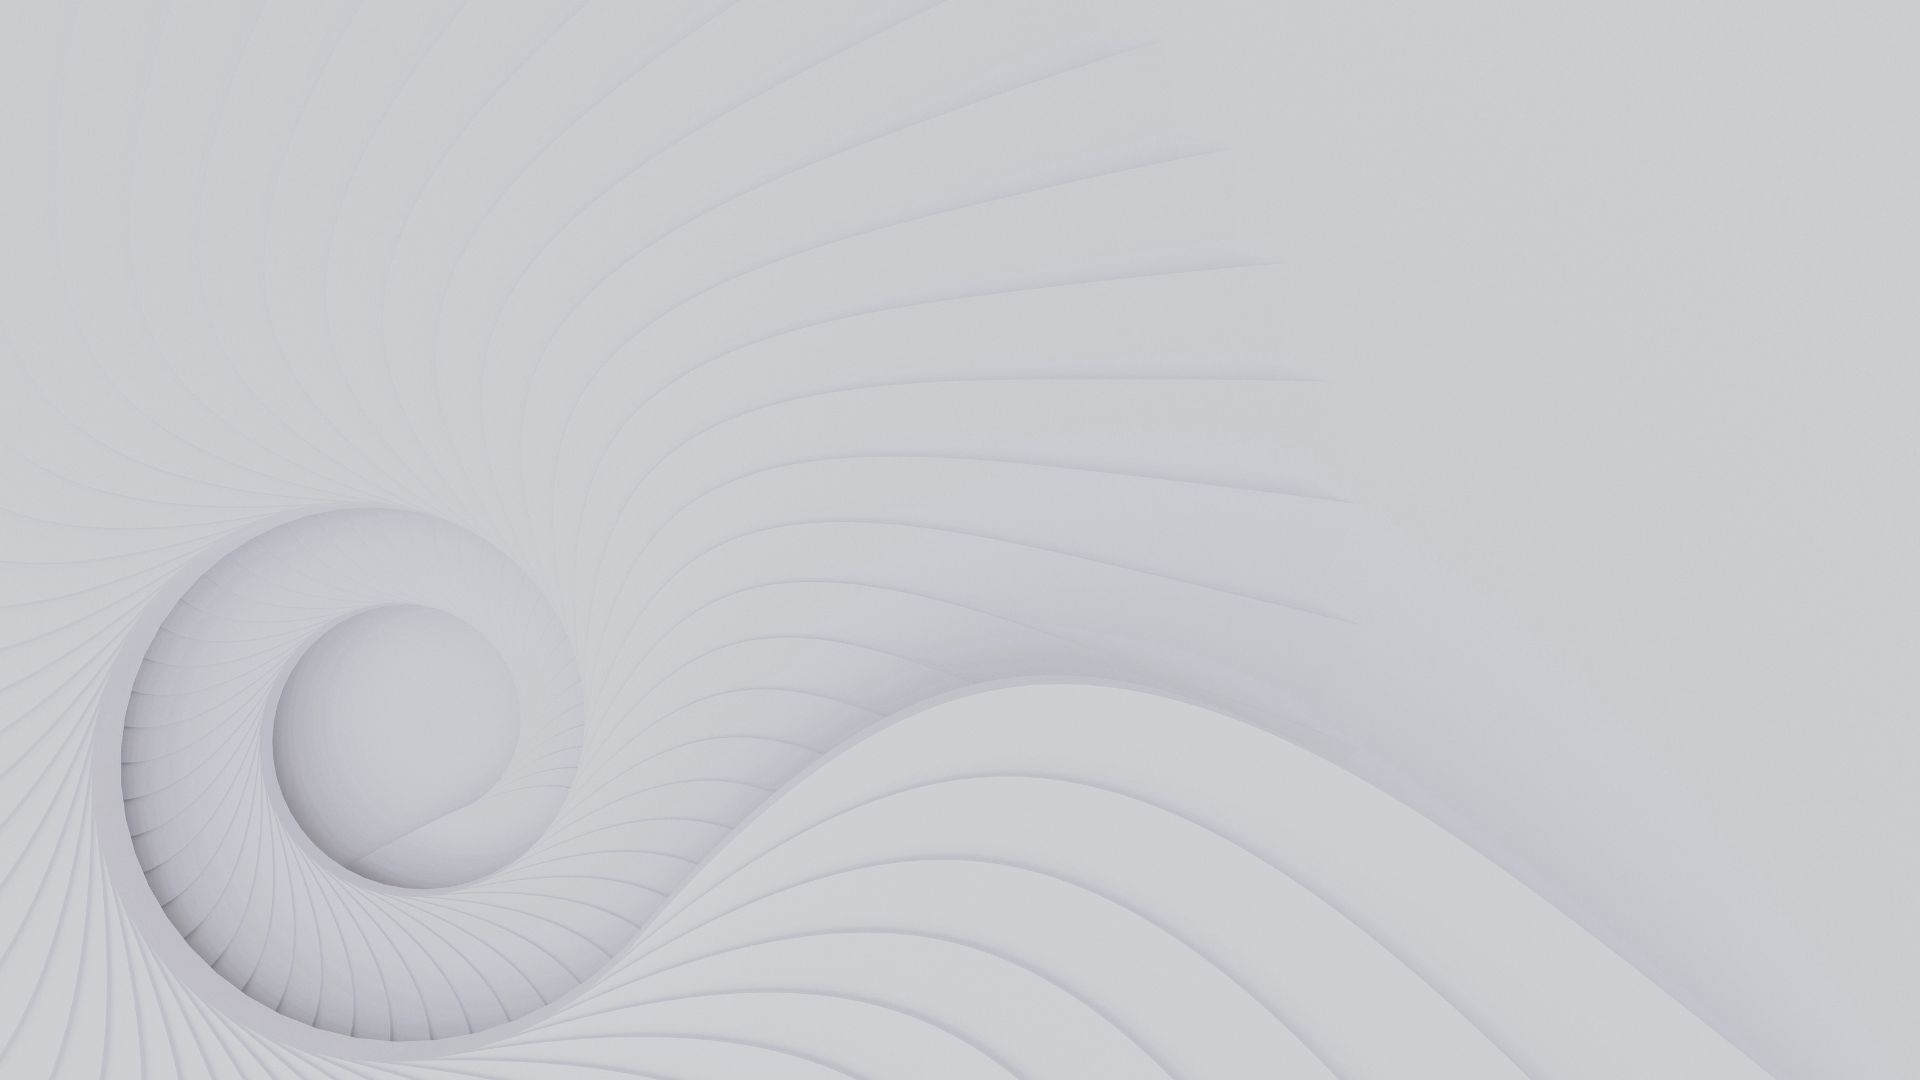
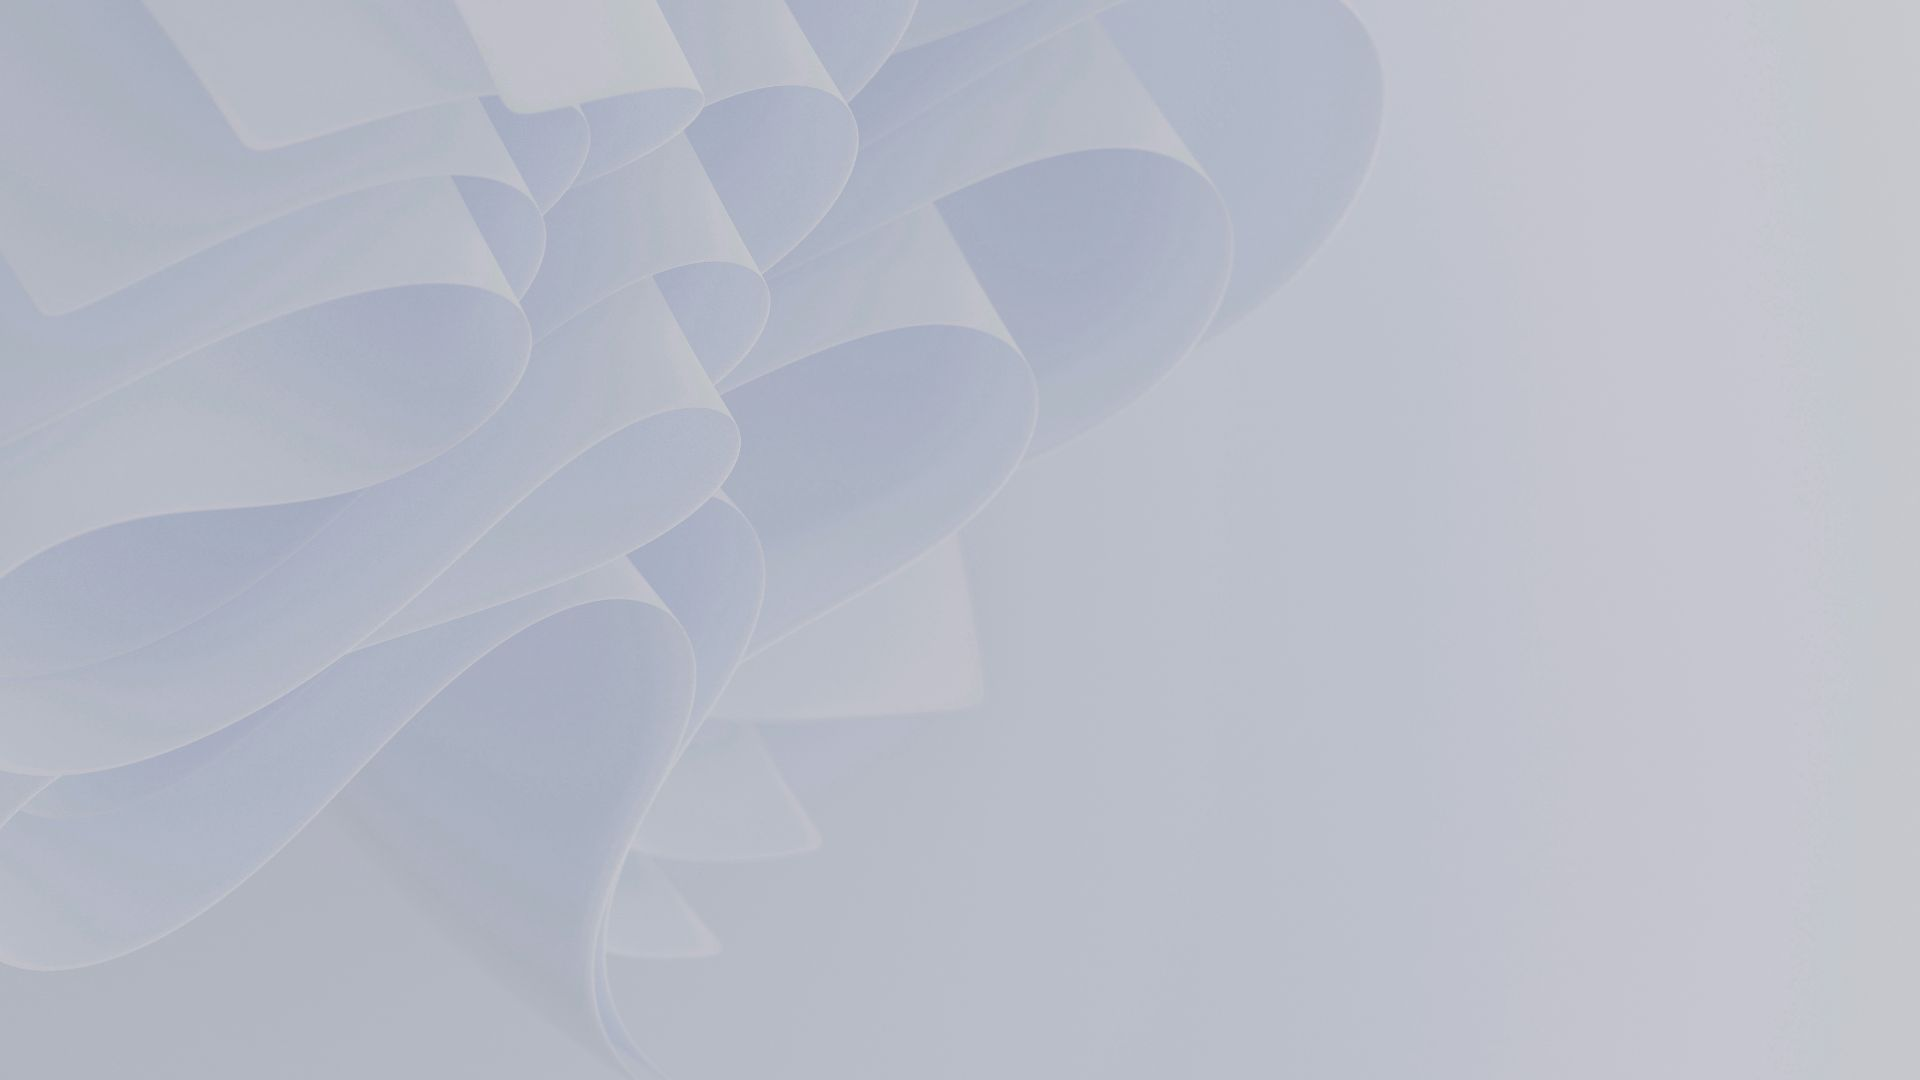
Se cambia el fondo de los registros

Changed region(s): [[0.0, 0.0, 0.7188, 1.0], [0.3438, 0.7944, 0.4062, 0.8861]]

diff --git a/formularioMembresias.html b/formularioMembresias.html
@@ -20,7 +20,7 @@
         </header>
 
         <!-- Main -->
-        <main>
+        <main class="mainbg">
 
             <div class="row justify-content-center m-5">
                 <!-- Agregar membresías -->
@@ -31,11 +31,11 @@
                             Agregar una nueva membresía es tu oportunidad para ofrecer experiencias únicas, destacar tus servicios y aumentar tu visibilidad en nuestra comunidad de belleza y bienestar. ¿Tienes un paquete exclusivo o una oferta irresistible? ¡Este es el lugar perfecto para compartirlo! Completa el formulario y permite que más personas descubran lo que tu negocio tiene para ofrecer. ¿Necesitas ayuda? No dudes en contactarnos, estamos aquí para apoyarte en cada paso.
                         </p>
                         <p id="tel">
-                            <img src="./assets/telefono.jpg" alt="tel" width="30" height="22">
+                            <img src="./assets/telefono.png" alt="tel" width="30" height="22">
                             58-45812354
                         </p>
                         <p id="email">
-                            <img src="./assets/correo.jpg" alt="correo" width="30" height="20">
+                            <img src="./assets/correo.png" alt="correo" width="30" height="20">
                             dream.key.test@gmail.com
                         </p>
                     </div>

diff --git a/contacto.html b/contacto.html
@@ -22,7 +22,7 @@
         </header>
 
         <!-- Main -->
-        <main>
+        <main class="mainbg">
             <section class="form-section">
                 <div class="container">
                     <div class="row align-items-start">
@@ -38,11 +38,11 @@
                                 </p>
                                 <div class="contact-info">
                                     <p class="txtInfo">
-                                        <img src="./assets/telefono.jpg" alt="tel" width="30" height="22">
+                                        <img src="./assets/telefono.png" alt="tel" width="30" height="22">
                                         58-45812354
                                     </p>
                                     <p class="txtInfo">
-                                        <img src="./assets/correo.jpg" alt="correo" width="30" height="20">
+                                        <img src="./assets/correo.png" alt="correo" width="30" height="20">
                                         dream.key.test@gmail.com
                                     </p>
                                 </div>

diff --git a/css/styles-formularioMembresias/style.css b/css/styles-formularioMembresias/style.css
@@ -14,6 +14,7 @@ p#text_1{
     font-size: 20px;
     padding-top: 10px;
     padding-bottom: 10px;
+    text-align: justify;
 }
 
 p#tel{
@@ -59,4 +60,8 @@ p#email{
         width: 300px;
     }
 
+}
+
+.mainbg{
+  background-image: url(../../assets/Diseño\ sin\ título.jpg);
 }

diff --git a/register.html b/register.html
@@ -24,7 +24,7 @@
         </header>
 
         <!-- Main -->
-        <main>
+        <main class="mainbg">
             <!-- se anade el contenido principal de dos columnas  -->
             <section class="form-section">
                 <div class="container-fluid">

diff --git a/login.html b/login.html
@@ -20,7 +20,7 @@
         </header>
 
         <!-- Main -->
-        <main>
+        <main class="mainbg">
 
             <div class="bienvenido">
                 <h1>Bienvenido a DreamKey</h1>

diff --git a/css/styles-registro/style.css b/css/styles-registro/style.css
@@ -288,3 +288,6 @@ div.register{
   display: grid;
   grid-template-rows: auto 1fr auto;
 }
+.mainbg{
+  background-image: url(../../assets/Diseño\ sin\ título.jpg);
+}

diff --git a/css/styles-contacto/style.css b/css/styles-contacto/style.css
@@ -301,3 +301,6 @@ padding-top: 15px;
   color: var(--p-color);
   margin-top: 10px;
 }
+.mainbg{
+  background-image: url(../../assets/Diseño\ sin\ título.jpg);
+}

diff --git a/css/styles-login/style.css b/css/styles-login/style.css
@@ -156,3 +156,7 @@ div.register{
    
     
     }
+
+.mainbg{
+  background-image: url(../../assets/Diseño\ sin\ título.jpg);
+}
